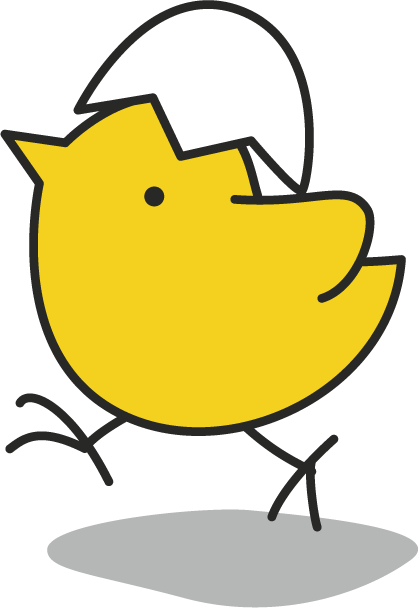
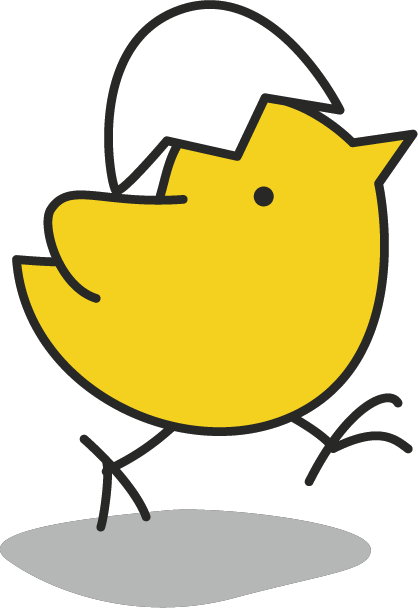
Add:要素を挿入
refs #11
ひよこ、足跡、ボタンを挿入しました。

Changed region(s): [[0.0, 0.0, 1.0, 1.0], [0.5287, 0.0, 0.622, 0.0312]]

diff --git a/src/views/ActivityView.vue b/src/views/ActivityView.vue
@@ -14,6 +14,8 @@
         <img src="@/assets/img/website_egg.png" class="website_egg" />
         <img src="@/assets/img/website.jpg" class="website_img" />
         <div class="website_whitebox"></div>
+        <img src="@/assets/img/hiyoko_ashiato01.png" class="website_ashiato_img" />
+        <img src="@/assets/img/hiyoko_01.png" class="website_hiyoko_img" />
       </div>
 
       <!-- LT -->
@@ -21,6 +23,7 @@
         <img src="@/assets/img/LT_egg.png" class="LT_egg" />
         <img src="@/assets/img/LT.jpg" class="LT_img" />
         <div class="LT_whitebox"></div>
+        <img src="@/assets/img/hiyoko_ashiato02.png" class="LT_ashiato_img" />
       </div>
 
       <!-- Events -->
@@ -28,7 +31,15 @@
         <img src="@/assets/img/events_egg.png" class="events_egg" />
         <img src="@/assets/img/events.jpg" class="events_img" />
         <div class="events_whitebox"></div>
+        <img src="@/assets/img/hiyoko_02.png" class="events_hiyoko_img" />
+        <img src="@/assets/img/hiyoko_ashiato02.png" class="events_ashiato_img" />
       </div>
+
+      <div class="button">
+        <a class="btn">入会はこちら</a>
+      </div>
+
+      <img src="@/assets/img/hiyoko_3_01.png" class="hiyoko_img" />
     </div>
   </main>
 </template>
@@ -40,6 +51,7 @@ export default {}
 main {
   padding: 20px;
 }
+
 h2 {
   font-family: 'Memelon';
   font-size: 60px;
@@ -47,12 +59,6 @@ h2 {
   text-align: center;
 }
 
-h3 {
-  font-family: Century;
-  font-size: 40px;
-  text-align: left;
-  margin-left: 70px;
-}
 .container {
   position: relative;
   height: 1000px;
@@ -84,6 +90,21 @@ h3 {
   border-radius: 15px;
   padding-top: 5px;
 }
+
+.website_ashiato_img {
+  position: absolute;
+  top: 900px;
+  left: 600px;
+  height: 40px;
+}
+
+.website_hiyoko_img {
+  position: absolute;
+  top: 850px;
+  left: 1250px;
+  width: 80px;
+  height: 90px;
+}
 .LT_egg {
   position: absolute;
   top: 200px;
@@ -111,16 +132,24 @@ h3 {
   border-radius: 15px;
   padding-top: 5px;
 }
+
+.LT_ashiato_img {
+  position: absolute;
+  top: 1000px;
+  left: 150px;
+  height: 40px;
+  transform: skew(-10deg, 5deg);
+}
 .events_egg {
   position: absolute;
-  top: 100px;
+  top: 150px;
   left: 200px;
   width: 900px;
   text-shadow: 1px 2px 3px #808080;
 }
 .events_img {
   position: absolute;
-  top: 100px;
+  top: 150px;
   left: 350px;
   width: 800px;
   opacity: 0.9;
@@ -130,7 +159,7 @@ h3 {
 
 .events_whitebox {
   position: absolute;
-  top: 340px;
+  top: 390px;
   left: 150px;
   width: 550px;
   height: 400px;
@@ -139,6 +168,51 @@ h3 {
   border-radius: 15px;
   padding-top: 5px;
 }
+
+.events_ashiato_img {
+  position: absolute;
+  top: 900px;
+  left: 700px;
+  height: 40px;
+  transform: skew(10deg, -5deg);
+}
+.events_hiyoko_img {
+  position: absolute;
+  top: 900px;
+  left: 600px;
+  width: 80px;
+  height: 90px;
+}
+
+.button {
+  text-align: center;
+}
+.btn {
+  padding: 8px 24px;
+  margin-top: 100px;
+  display: inline-block;
+  background: #e5e5e2;
+  border-bottom: solid 4px #bdbdba;
+  font-size: 30px;
+  font-family: 'Memelon';
+  border-radius: 20px;
+  letter-spacing: 1px;
+  cursor: pointer;
+}
+
+.btn:active {
+  border-bottom: none;
+  position: relative;
+  top: 4px;
+}
+
+.hiyoko_img {
+  width: 400px;
+  height: 150px;
+  float: right;
+  margin-top: 150px;
+}
+
 /* .back_egg2 {
   margin-top: 1000px;
   margin-left: 800px;
